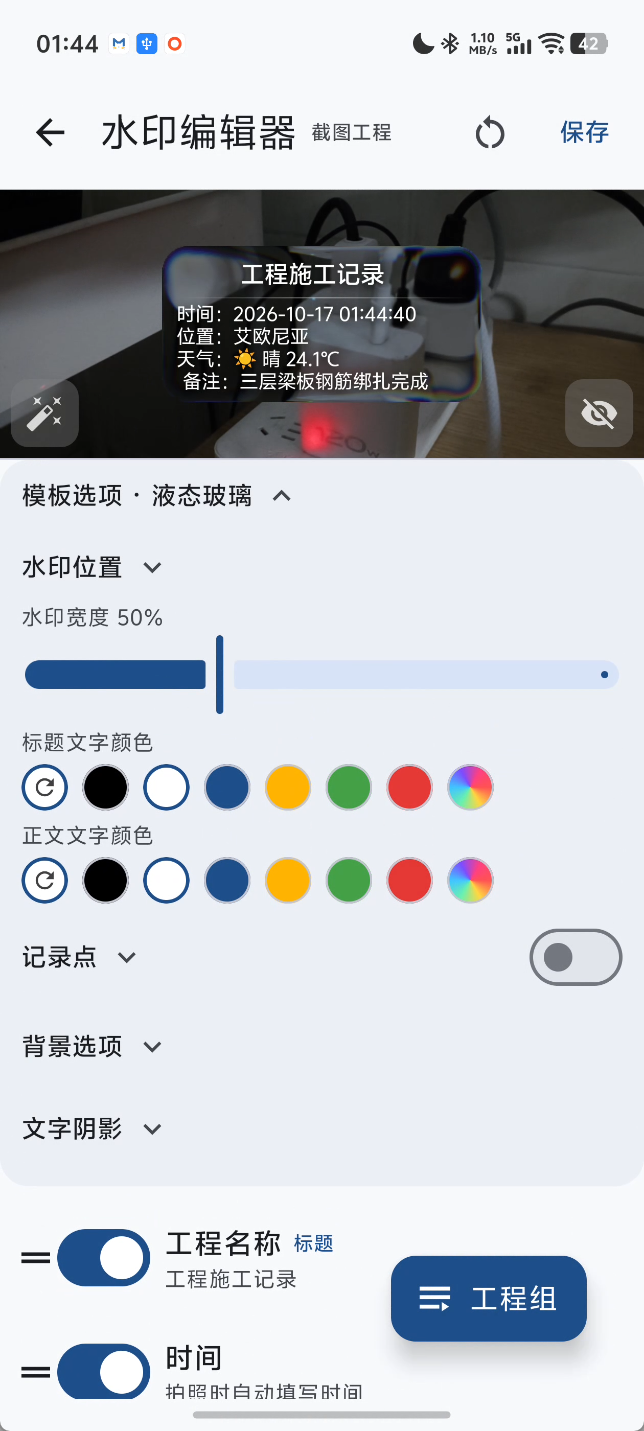
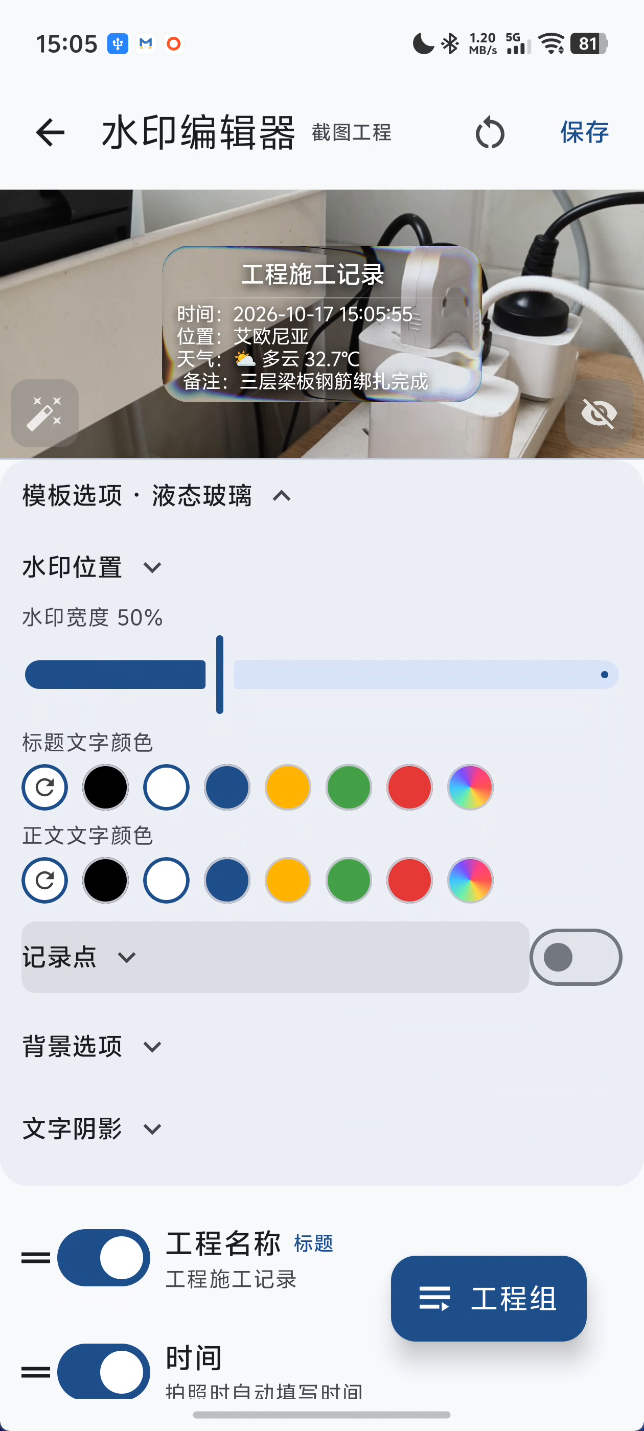
README 双语 v0.6.8：APK 直链（engCamera-v0.6.8-233.apk）与版本号更新；特性三处补 v0.6.8——拍照确认长按拖水印（只影响本次保存）、液态玻璃静态图（相册加水印/确认页）真实折射、给已有图片加水印全量（选图即标注/长按拖水印/方向锁定）；真机截图四张更新（主界面/水印编辑器/编辑添加水印/设置）

diff --git a/README_en.md b/README_en.md
@@ -5,14 +5,14 @@
 <h1 align="center">engCamera · Engineering Watermark Camera</h1>
 
 <p align="center">
-  <a href="https://github.com/zy8270/engCamera/releases/download/v0.6.7/engCamera-v0.6.7.apk">⬇ Download Android Release</a>
+  <a href="https://github.com/zy8270/engCamera/releases/download/v0.6.8/engCamera-v0.6.8-233.apk">⬇ Download Android Release</a>
   <br/>
   <a href="README.md">🇨🇳 中文说明</a>
 </p>
 
 A personal-use Android camera for engineering work: watermarks are previewed live before you shoot and **burned into** the final JPEG / MP4. It can also batch-watermark existing photos from your gallery, and multiple **project profiles** switch the whole watermark set in one tap. No ads, no sign-in, no cloud sync.
 
-> Current version: v0.6.7 (revision history in [交付说明](交付说明.md), Chinese)
+> Current version: v0.6.8 (revision history in [交付说明](交付说明.md), Chinese)
 
 ## Screenshots
 
@@ -31,7 +31,7 @@ A personal-use Android camera for engineering work: watermarks are previewed liv
 ### Capture
 
 - **Live watermark preview + burned output**: what you see before pressing the shutter is what gets burned into the file — no metadata tricks
-- **Shot confirm & gesture annotation** (setting, on by default): after the shutter you get a confirm page — arrow / rectangle / brush annotations (six colors, undo per stroke), tap-to-add text (drag to move, handle to rotate & scale, instant recolor); **pinch to zoom for fine annotation**: zoom stays after lifting your fingers, single finger keeps drawing, stroke width is locked to the zoom level at pen-down (strokes drawn zoomed-in stay thinner, matching the saved photo), and text handles keep a constant size; landscape / upside-down shots are centered at true aspect inside a fixed 3:4 confirm frame with the watermark gravity-corrected to its final position, and can be zoomed to fill the frame
+- **Shot confirm & gesture annotation** (setting, on by default): after the shutter you get a confirm page — arrow / rectangle / brush annotations (six colors, undo per stroke), tap-to-add text (drag to move, handle to rotate & scale, instant recolor), and **long-press the watermark block to drag it** (affects only this save, not the global position); **pinch to zoom for fine annotation**: zoom stays after lifting your fingers, single finger keeps drawing, stroke width is locked to the zoom level at pen-down (strokes drawn zoomed-in stay thinner, matching the saved photo), and text handles keep a constant size; landscape / upside-down shots are centered at true aspect inside a fixed 3:4 confirm frame with the watermark gravity-corrected to its final position, and can be zoomed to fill the frame
 - **Bilingual UI (Chinese / English)**: follow system / Chinese / English, switchable in settings — template names, field labels and prompts all switch instantly
 - **Video aspect matches the preview**: preview / photo / video are cropped to the same ratio; quality tiers are generated from the camera's real capabilities (showing actual output resolution & frame rate; no 4K on front cameras)
 - **Photo quality picker**: tiers follow the current lens' true capabilities, labeled with real output resolution and megapixels (e.g. 4624×3472 · ~16MP)
@@ -47,7 +47,7 @@ A personal-use Android camera for engineering work: watermarks are previewed liv
 
 ### Watermark
 
-- **Liquid Glass default template**: an iOS-style liquid glass card rendered live by the bundled [AndroidLiquidGlassView](https://github.com/QmDeve/AndroidLiquidGlassView) (MIT) — edge refraction + dispersion sampled from the live camera feed, WYSIWYG in preview and burned with the same shader; **videos get true refraction too** (a custom GPU frame effect samples the video itself frame by frame); corner radius / refraction height & offset / tint / dispersion / blur are adjustable, as are text colors, shadow (size / spread / opacity / offset), watermark width and record point; all four orientations run the GPU path at full frame rate (requires Android 13+; older versions fall back to a translucent glass base)
+- **Liquid Glass default template**: an iOS-style liquid glass card rendered live by the bundled [AndroidLiquidGlassView](https://github.com/QmDeve/AndroidLiquidGlassView) (MIT) — edge refraction + dispersion sampled from the live camera feed, WYSIWYG in preview and burned with the same shader; **videos get true refraction too** (a custom GPU frame effect samples the video itself frame by frame); **gallery-photo watermarking and the confirm page get true refraction as well** (full-resolution static rendering — it refracts wherever you drag it); corner radius / refraction height & offset / tint / dispersion / blur are adjustable, as are text colors, shadow (size / spread / opacity / offset), watermark width and record point; all four orientations run the GPU path at full frame rate (requires Android 13+; older versions fall back to a translucent glass base)
 - **Template system**: 9 built-in — 7 native (classic engineering blue / liquid glass / minimal white shadow / bordered card / single-line / gradient bar / note card, drawn directly on Canvas at zero cost) + 2 web (film slate / magazine card, offline HTML/CSS); each template exposes its own knobs (title/body/background colors, border, radius, gradient base, width, web scale…), saved per project; web templates export/import as HTML, and any template exports whole (fields/styles/position) to clipboard or file for another device
 - **9-grid position**: visually pick any of 9 slots (corners / edges / center), never reset by rotation, or fine-tune by dragging; directions are interpreted in the **physical gravity** frame — in landscape, "bottom" is the table side
 - **Editor live camera preview (eye toggle)**: tap the "eye" in the editor to swap the background for the live rear camera — liquid glass refracts it live; closed eye = viewfinder freeze-frame background (settings toggle; off = flat dual-mountain artwork, dark/light variants)
@@ -59,7 +59,7 @@ A personal-use Android camera for engineering work: watermarks are previewed liv
 
 ### Gallery & batch
 
-- **Watermark existing photos**: pencil icon → system multi-picker (up to 30) → per-photo edit & confirm → batch save
+- **Watermark existing photos**: pencil icon to enter (start picking via the empty-state + button or the download key), system multi-picker (up to 30), then the same annotation suite as shot-confirm — arrow / rectangle / brush / text tools, six colors + free picking, undo per stroke, pinch to zoom; annotations burn on top of the watermark and photos save one by one with an x/y progress; long-press the watermark block to drag it, and the watermark stays locked to the photo's orientation
 - **Gallery**: newest first, 4 columns by default (pinch 3–6), multi-select delete, tap opens the system viewer; auto-refresh on return
 
 ## Tech stack

diff --git a/README.md b/README.md
@@ -5,14 +5,14 @@
 <h1 align="center">engCamera · 工程水印相机 · engineering Camera</h1>
 
 <p align="center">
-  <a href="https://github.com/zy8270/engCamera/releases/download/v0.6.7/engCamera-v0.6.7.apk">⬇ 下载安卓版 Release</a>
+  <a href="https://github.com/zy8270/engCamera/releases/download/v0.6.8/engCamera-v0.6.8-233.apk">⬇ 下载安卓版 Release</a>
   <br/>
   <a href="README_en.md">🇬🇧 English README</a>
 </p>
 
 一个自用向的 Android 工程水印相机：拍照 / 录像前实时预览水印，成片直接把水印**烧录**进文件；也可以给相册里已有的图片批量补加水印；多工地用**工程组**一键切换整套水印。无广告、无登录、无云同步。
 
-> 当前版本：v0.6.7（修订记录见 [交付说明](交付说明.md)）
+> 当前版本：v0.6.8（修订记录见 [交付说明](交付说明.md)）
 
 ## 界面预览
 
@@ -31,7 +31,7 @@
 ### 拍摄
 
 - **水印实时预览 + 烧录成片**：拍照前所见即所得，水印直接烧入 JPEG / MP4，不依赖元数据
-- **拍照确认与手势标注**（设置项，默认开）：快门后先进确认页——箭头 / 矩形 / 笔刷标注（六色选择、逐笔撤销）、点按加文字（拖动移动、拉杆旋转缩放、即时改色）；**双指缩放精细标注**：放大后松手保持缩放、单指继续落笔，笔画粗细定格在落笔时的倍率（放大时画的笔画永久更细，与成片一致），文字操作手柄尺寸恒定不随缩放变大；横拍 / 倒置照片在恒定 3:4 确认框内按真实比例居中、水印随重力回正到成片位置，双指放大可填满整框
+- **拍照确认与手势标注**（设置项，默认开）：快门后先进确认页——箭头 / 矩形 / 笔刷标注（六色选择、逐笔撤销）、点按加文字（拖动移动、拉杆旋转缩放、即时改色）、**长按水印块拖动改位**（只影响本次保存，不动全局水印位置）；**双指缩放精细标注**：放大后松手保持缩放、单指继续落笔，笔画粗细定格在落笔时的倍率（放大时画的笔画永久更细，与成片一致），文字操作手柄尺寸恒定不随缩放变大；横拍 / 倒置照片在恒定 3:4 确认框内按真实比例居中、水印随重力回正到成片位置，双指放大可填满整框
 - **中英双语界面**：跟随系统 / 中文 / English 三档（设置内切换），模板名、字段标签、提示文案全量随语言即时切换
 - **录像比例与预览一致**：预览 / 拍照 / 录像统一裁剪到预览比例；画质档位按设备真实能力生成（显示实际成片分辨率与帧率，前摄自动无 4K）
 - **照片画质选择器**：档位按当前镜头真实能力生成，菜单实标成片分辨率与像素量级（如 4624×3472 · 约16MP），选档即生效
@@ -47,7 +47,7 @@
 
 ### 水印
 
-- **液态玻璃默认模板**：内置 [AndroidLiquidGlassView](https://github.com/QmDeve/AndroidLiquidGlassView)（MIT）实时渲染的 iOS 液态玻璃卡——边缘折射 + 色散实时采样相机画面，预览所见即所得，拍照烧录同款着色器保证成片一致；**录像成片同样带真实折射**（自定义 GPU 帧效果逐帧采样视频画面）；圆角 / 折射高度 / 折射偏移 / 着色 / 色散 / 模糊等背景参数可调，标题 / 正文文字颜色、阴影（大小/扩散/透明度/垂直偏移）、水印宽度、记录点独立可调；竖屏 / 横屏 / 倒置四方向全走 GPU 实时路径，预览帧率一致（液态玻璃效果需 Android 13+，低版本自动退化为半透明玻璃底）
+- **液态玻璃默认模板**：内置 [AndroidLiquidGlassView](https://github.com/QmDeve/AndroidLiquidGlassView)（MIT）实时渲染的 iOS 液态玻璃卡——边缘折射 + 色散实时采样相机画面，预览所见即所得，拍照烧录同款着色器保证成片一致；**录像成片同样带真实折射**（自定义 GPU 帧效果逐帧采样视频画面）；**给相册图片加水印与确认页照片也是真实折射**（静态图全分辨率渲染，拖到哪里扭到哪里）；圆角 / 折射高度 / 折射偏移 / 着色 / 色散 / 模糊等背景参数可调，标题 / 正文文字颜色、阴影（大小/扩散/透明度/垂直偏移）、水印宽度、记录点独立可调；竖屏 / 横屏 / 倒置四方向全走 GPU 实时路径，预览帧率一致（液态玻璃效果需 Android 13+，低版本自动退化为半透明玻璃底）
 - **水印模板系统**：内置 9 款——原生 7 款（经典工程蓝 / 液态玻璃 / 极简白影 / 边框卡片 / 单行横排 / 渐变底栏 / 便签卡等，Canvas 直绘零开销）+ 网页 2 款（胶片场记 / 杂志卡片，HTML/CSS 离线渲染）；每款模板暴露自己的可调项（标题/正文/背景颜色、边框粗细、圆角、渐变基色、水印宽度、网页整体缩放等），随工程保存；网页模板支持 HTML 导入导出，模板也可整份导出（含字段值/样式/位置）到剪贴板或文件，另一台设备导入即还原
 - **水印位置九宫格**：所有模板可视化点选 9 宫格位置（四角 / 四边 / 正中），不随转向重置，也可直接拖动微调；上下左右按**物理重力方向**解释——横拍时「下方」就是桌面所在侧
 - **编辑器实时相机预览（眼睛开关）**：编辑器预览区点"眼睛"把背景换成相机实时画面，液态玻璃实时折射所见即所得，调参更直观；默认闭眼为取景器截帧背景（进入编辑器瞬间的画面，设置内"取景器截帧背景"可关，关闭后为深/亮两套扁平山形图案背景）
@@ -59,7 +59,7 @@
 
 ### 相册与批处理
 
-- **给已有图片加水印**：笔图标进入，系统选择器多选（最多 30 张），逐张编辑确认批量保存
+- **给已有图片加水印**：笔图标进入（空态 + 号或下载键发起选图），系统选择器多选（最多 30 张），逐张进入与拍照确认同一套标注界面——箭头 / 矩形 / 笔刷 / 文字工具、六色 + 自由选色、逐笔撤销、双指缩放，标注盖水印烧录、多张按 x/y 进度依次保存；长按水印块拖动改位，水印方向锁定与图片同正
 - **相册**：拍摄时间从新到旧，默认 4 列、捏合 3~6 列，多选删除、点击跳系统相册；返回自动刷新
 
 ## 技术栈
